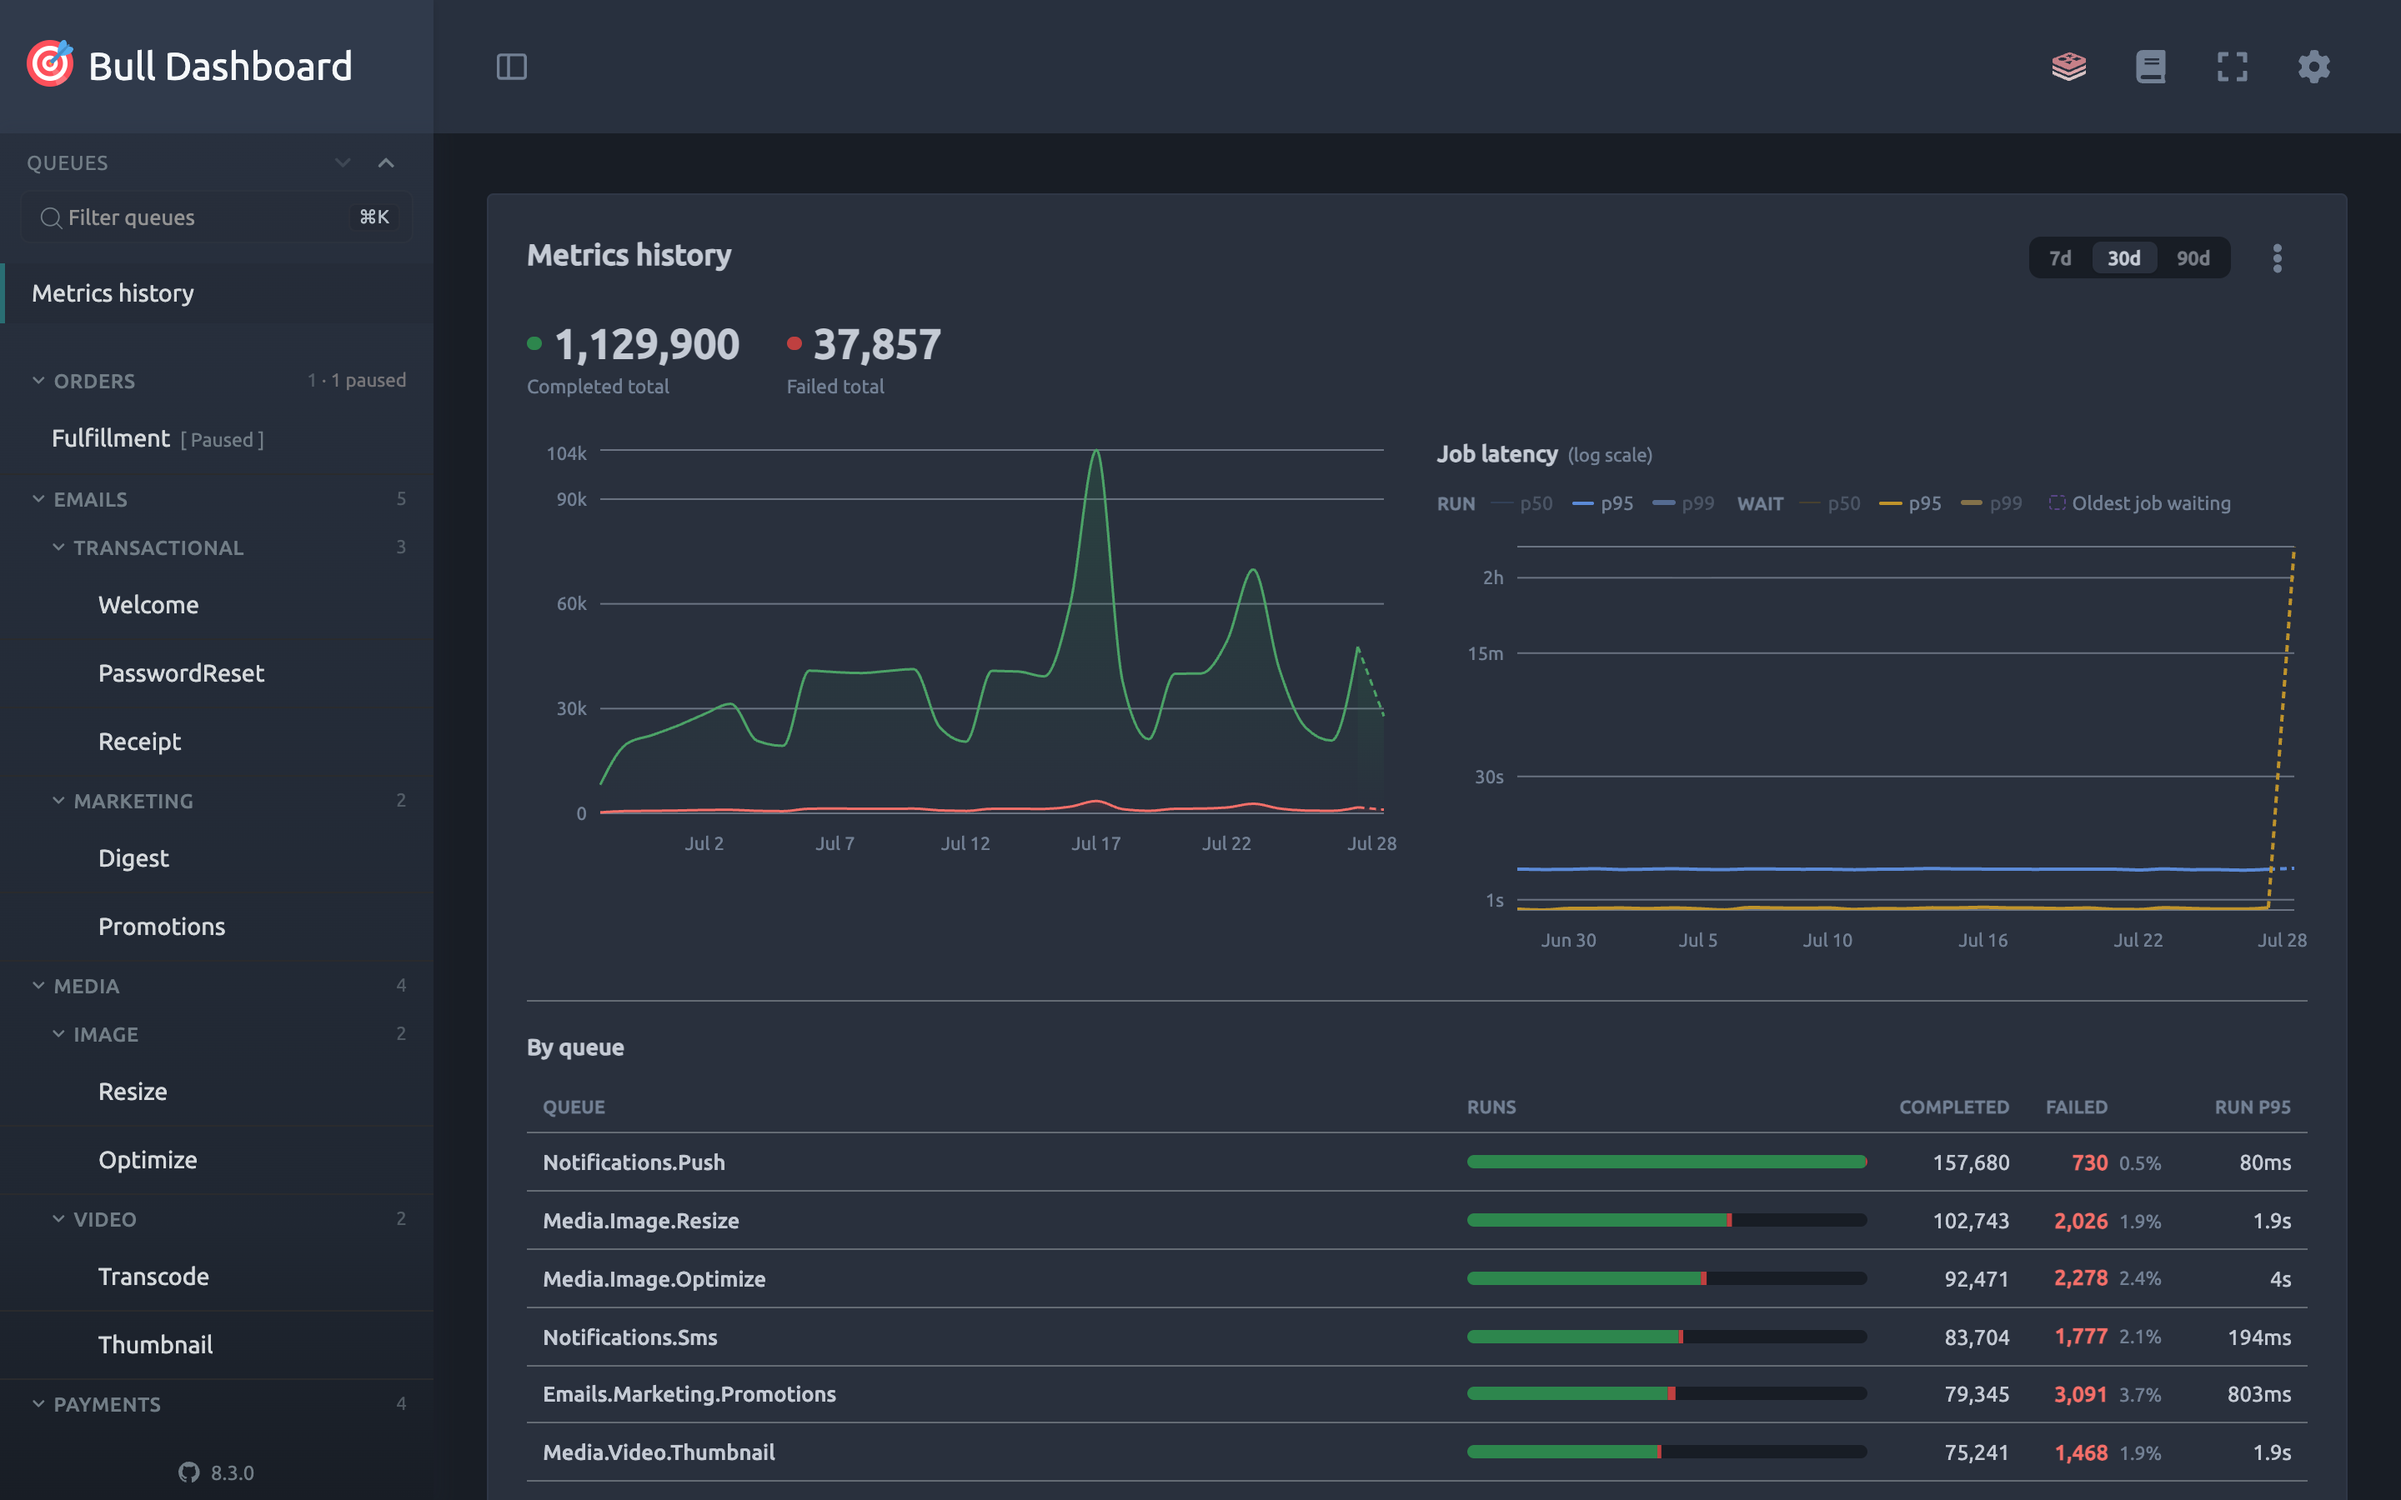
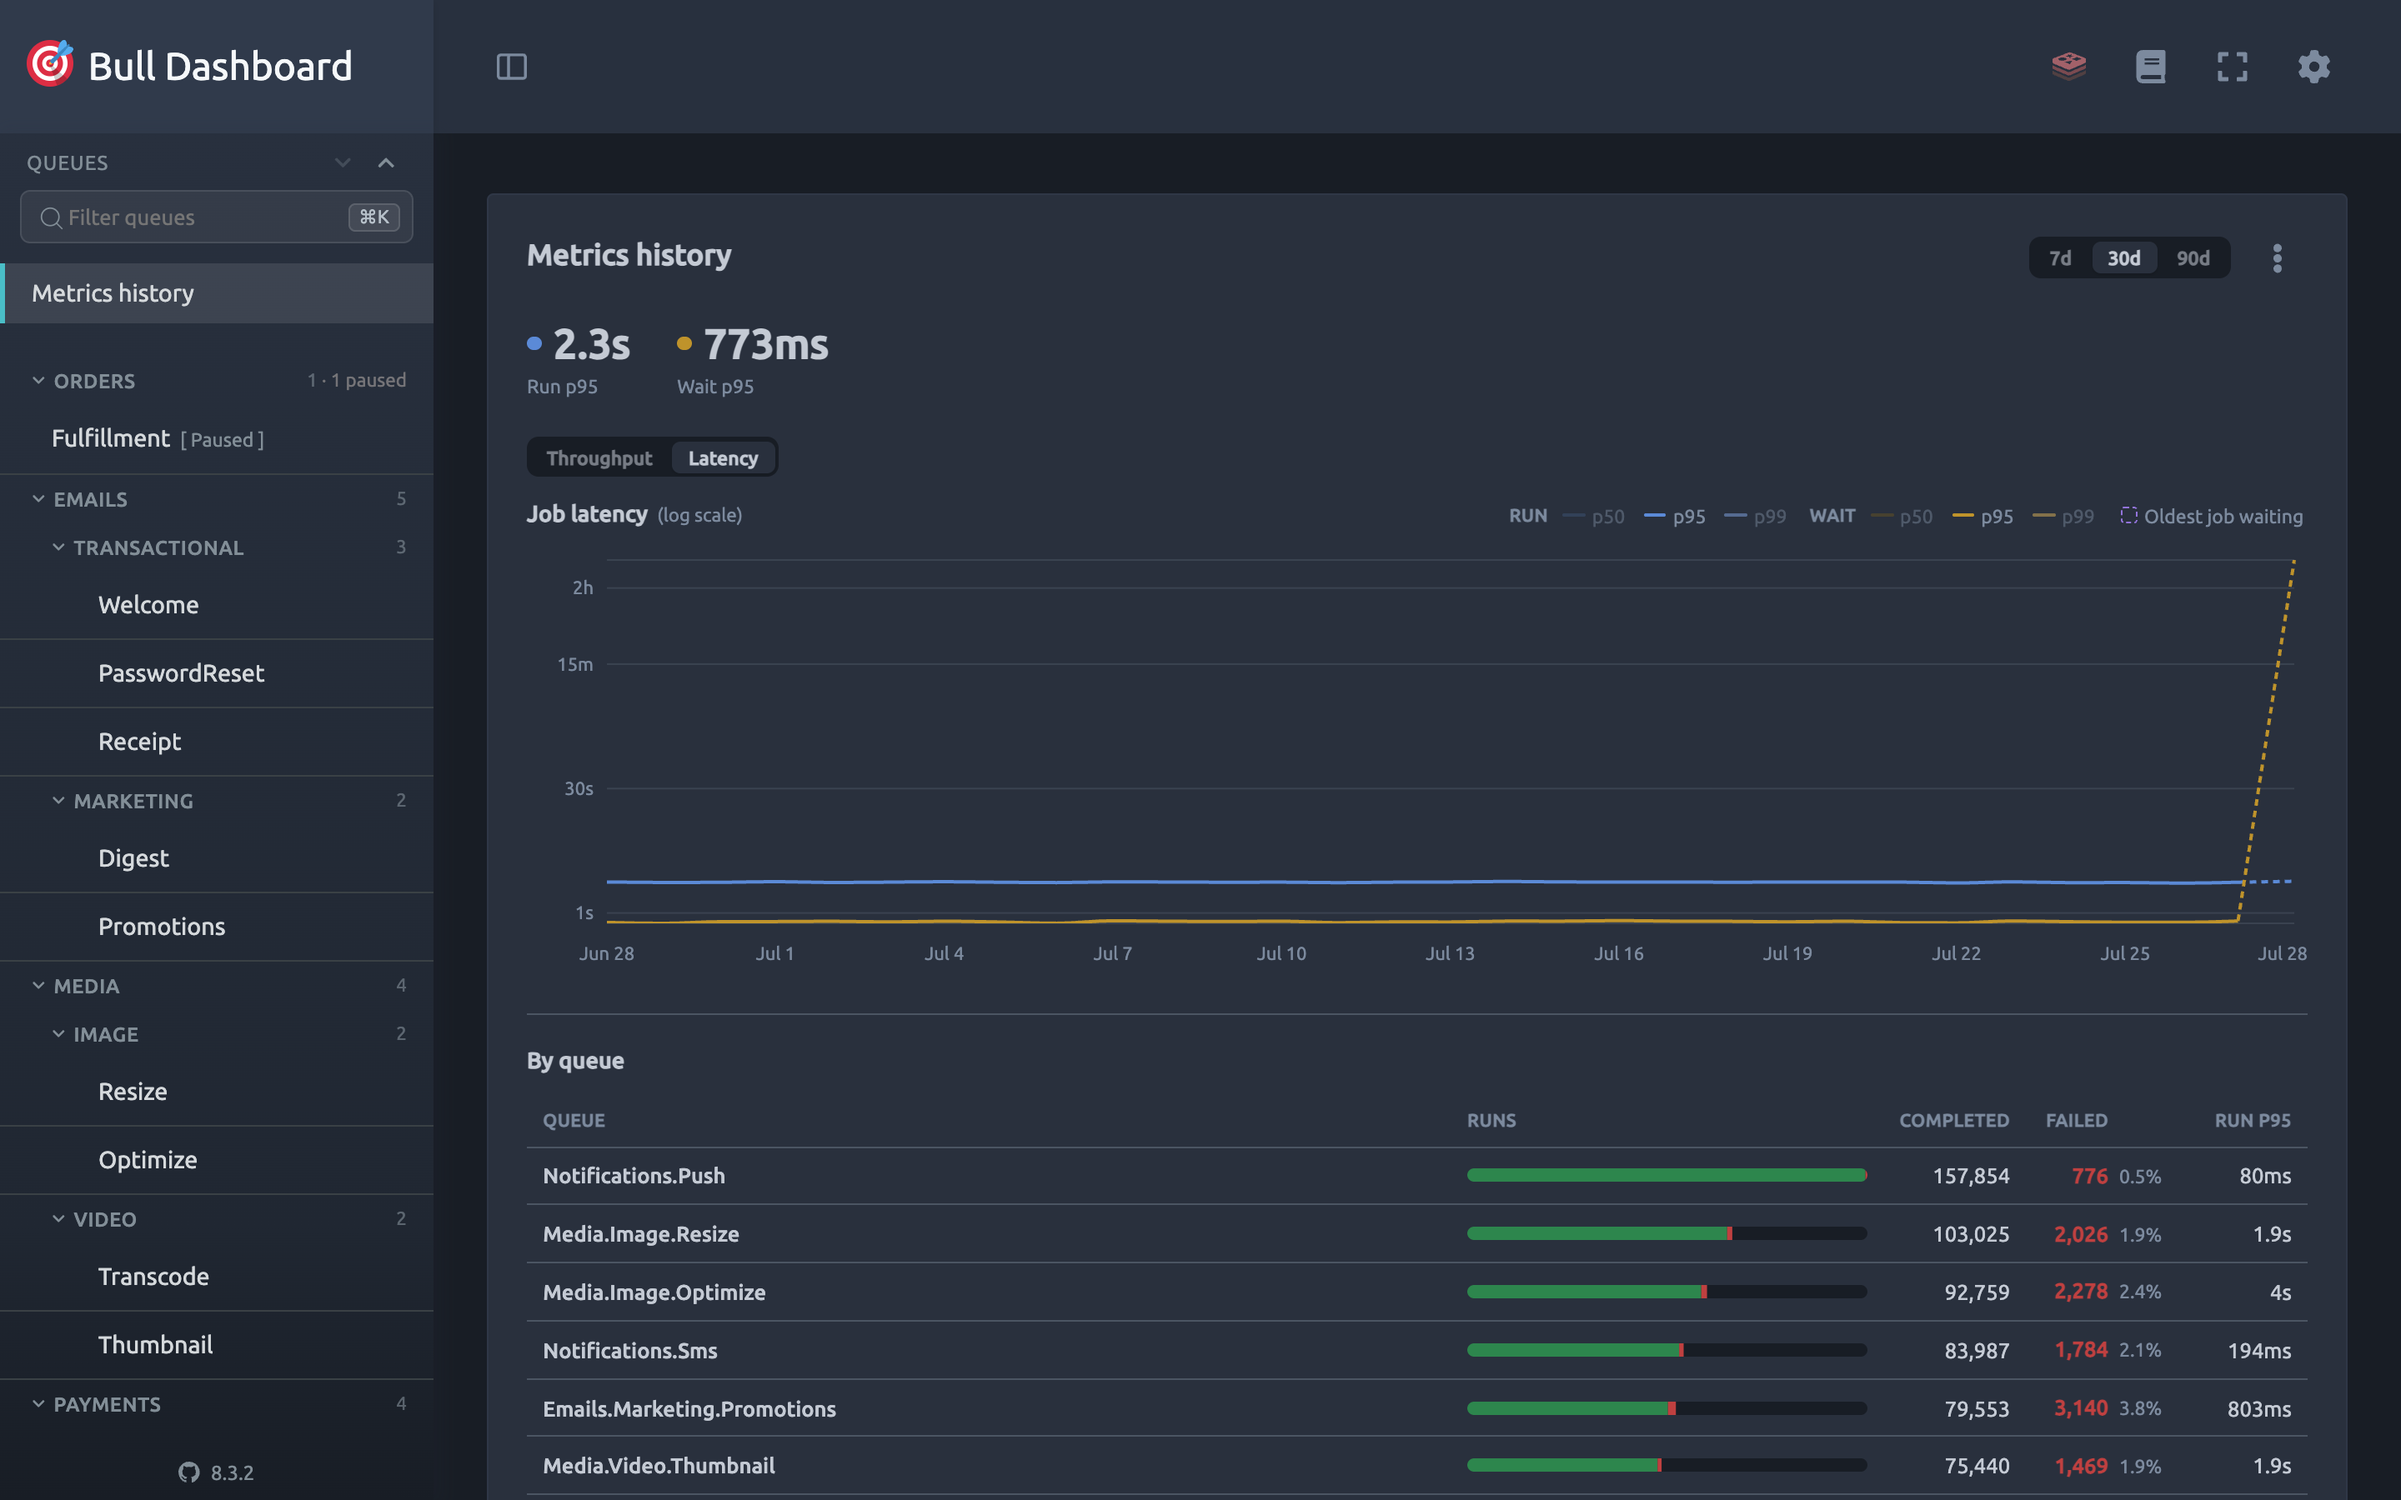
docs(metrics): describe the chart tab and reshoot the screenshots

diff --git a/website/docs/recipes/historical-metrics.md b/website/docs/recipes/historical-metrics.md
@@ -45,11 +45,13 @@ Percentiles read off these histograms are estimates, not exact values, bounded b
 
 If a queue is configured with `removeOnComplete: true`, jobs are deleted the instant they finish, so there is nothing left in the completed set for the next tick to scan, and no latency data will ever appear for it. There's no error and no warning, just an empty chart. If latency data isn't showing up for a queue, this is the first thing to check.
 
-Both charts appear under the throughput chart on a queue's own page, sharing its range selector. The wait chart is the one with the queue-age overlay, drawn dashed on the same axis:
+Latency shares the chart area with throughput behind a tab, on a queue's own page and on the Metrics history page alike, so you get one chart at a time rather than a stack of them. The totals above the chart follow the tab: completed and failed counts on Throughput, p95 run and p95 wait for the selected range on Latency. Wait time carries the queue-age gauge as a dashed line on the same axis, since both are durations:
 
 ![Runtime and wait time percentiles on a queue page, with the oldest waiting job overlaid on the wait chart](/screenshots/job-latency-queue.png)
 
-The axes are logarithmic, and labelled as such. Latency spans orders of magnitude, so on a linear axis a p99 measured in minutes flattens p50 and p95 into a single line along the bottom and the chart stops saying anything about the typical case.
+Run p95, wait p95 and queue age are drawn by default; p50 and p99 for each are a click away in the legend, and what you enable is remembered. The axis is logarithmic, and labelled as such. Latency spans orders of magnitude, so on a linear axis a p99 measured in minutes flattens p50 and p95 into a single line along the bottom and the chart stops saying anything about the typical case.
+
+The newest point on any chart is drawn dashed while its bucket is still filling, because today's day, or the current hour, only covers the time elapsed so far and would otherwise read as a sudden drop.
 
 Latency sampling is on by default whenever the recorder runs. Set `latency: false` to turn it off:
 
